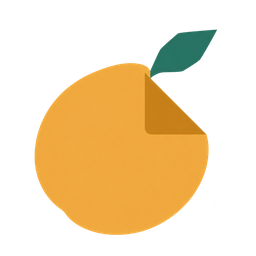
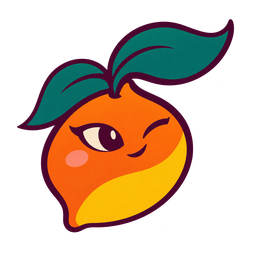
Uvaia maskotunu ve renk temasını güncelle

diff --git a/uvaia.py b/uvaia.py
@@ -80,31 +80,38 @@ from video_trim_dialog import VideoTrimDialog
 ICON_PATH = Path(__file__).resolve().parent / "assets" / "uvaia.png"
 
 STYLE = """
-QWidget { background: #151e1c; color: #f4f1e6; font-size: 14px; }
+QWidget { background: #281323; color: #fff1db; font-size: 14px; }
 QLabel#title { font-size: 34px; font-weight: 750; }
-QLabel#status, QLabel#dropHint { color: #b5c6bc; }
+QLabel#status, QLabel#dropHint { color: #d8bdcf; }
 QLabel#dropZone { font-size: 19px; font-weight: 650; }
-QFrame#dropCard { background: #202f29; border: 1px dashed #7c9988; border-radius: 17px; }
-QFrame#dropCard[dragging="true"] { background: #2a3b30; border-color: #f4bd58; }
+QFrame#dropCard { background: #391e34; border: 1px dashed #a86e97; border-radius: 17px; }
+QFrame#dropCard[dragging="true"] { background: #4b2841; border-color: #ff9b39; }
 QFrame#dropCard QLabel { background: transparent; }
-QPushButton { background: #263730; border: 1px solid #3d5448; border-radius: 9px;
+QPushButton { background: #43263d; border: 1px solid #774a6d; border-radius: 9px;
     min-height: 24px; padding: 8px 13px; }
-QPushButton#pick, QPushButton[format="true"] { background: #f4bd58; color: #202014;
-    border-color: #f4bd58; font-weight: 700; }
+QPushButton#pick, QPushButton[format="true"] { background: #ff9b39; color: #341023;
+    border-color: #ff9b39; font-weight: 700; }
 QPushButton[format="true"] { border-radius: 19px; }
-QPushButton:hover { border-color: #f4bd58; }
-QPushButton#pick:hover, QPushButton[format="true"]:hover { background: #ffd481; }
-QPushButton:focus { border-color: #ffffff; }
+QPushButton:hover { border-color: #ff9b39; }
+QPushButton#pick:hover, QPushButton[format="true"]:hover { background: #ffc447; }
+QPushButton:focus { border-color: #fff2c5; }
 QPushButton:disabled, QPushButton#pick:disabled, QPushButton[format="true"]:disabled {
-    color: #a6b3ac; background: #26312d; border-color: #3d4a44; }
-QTabWidget::pane { border: 1px solid #36483f; border-radius: 11px; }
+    color: #c8adbd; background: #3a2636; border-color: #62465a; }
+QTabWidget::pane { border: 1px solid #6a4260; border-radius: 11px; }
 QTabBar::tab { padding: 9px 15px; border: 1px solid transparent;
-    border-bottom: 2px solid transparent; color: #b5c6bc; }
-QTabBar::tab:selected { color: #ffe2a4; border-bottom-color: #f4bd58; }
-QTabBar::tab:hover { background: #263730; }
-QTabBar::tab:focus { border-top-color: #b5c6bc; }
-QProgressBar { border: 1px solid #3d5448; border-radius: 7px; text-align: center; }
-QProgressBar::chunk { background: #356551; border-radius: 6px; }
+    border-bottom: 2px solid transparent; color: #d8bdcf; }
+QTabBar::tab:selected { color: #ffd363; border-bottom-color: #ff9b39; }
+QTabBar::tab:hover { background: #43263d; }
+QTabBar::tab:focus { border-top-color: #d8bdcf; }
+QProgressBar { border: 1px solid #774a6d; border-radius: 7px; text-align: center; }
+QLineEdit, QPlainTextEdit, QSpinBox, QComboBox, QListWidget {
+    background: #33192e; border: 1px solid #774a6d; border-radius: 6px;
+    selection-background-color: #17685e; selection-color: #fff1db;
+}
+QLineEdit:focus, QPlainTextEdit:focus, QSpinBox:focus, QComboBox:focus, QListWidget:focus {
+    border-color: #ff9b39;
+}
+QProgressBar::chunk { background: #17685e; border-radius: 6px; }
 """
 
 

diff --git a/crop_dialog.py b/crop_dialog.py
@@ -8,7 +8,7 @@ from PySide6.QtWidgets import QDialog, QDialogButtonBox, QLabel, QVBoxLayout, QW
 
 from image_conversion import CropBounds
 
-SELECTION_COLOR = QColor("#eac174")
+SELECTION_COLOR = QColor("#ffc447")
 
 
 class CropPreview(QWidget):
